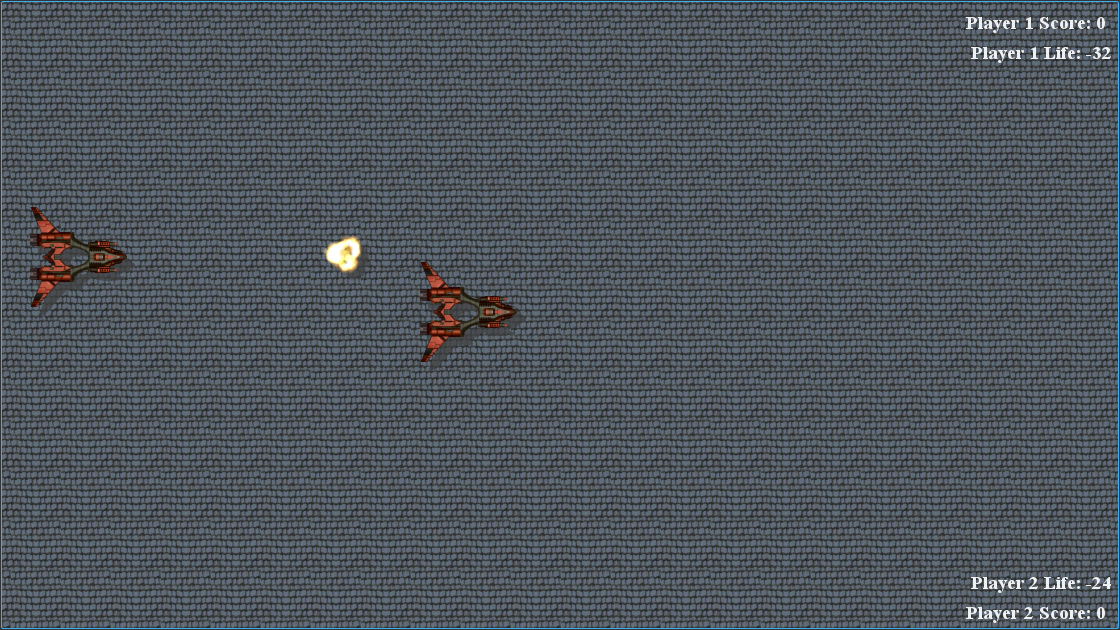
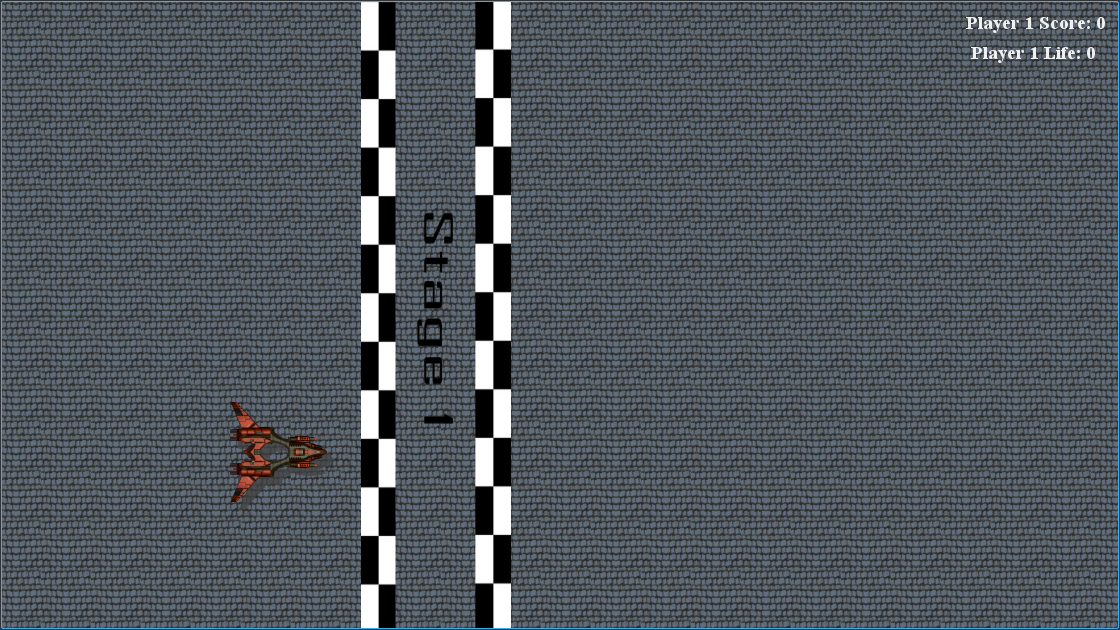
Project Update

diff --git a/Sources/Source Files/Widgets/MyGame.cpp b/Sources/Source Files/Widgets/MyGame.cpp
@@ -207,7 +207,14 @@ void MyGame::timerEvent(QTimerEvent *event) {
 		}
 	items = scene()->items();
 			foreach(QGraphicsItem *i, items) {
-			if (!dynamic_cast<MyShipShield *>(i) && !i->isVisible())
+			if (!dynamic_cast<MyShipShield *>(i) && !dynamic_cast<MyShip *>(i) && !i->isVisible()) {
 				scene()->removeItem(i);
+			}
+			else if (dynamic_cast<MyShip *>(i) && !i->isVisible()) {
+				scene()->removeItem(dynamic_cast<MyShip *>(i)->shpshld);
+				scene()->removeItem(dynamic_cast<MyShip *>(i)->scr_txt);
+				scene()->removeItem(dynamic_cast<MyShip *>(i)->lf_txt);
+				scene()->removeItem(i);
+			}
 		}
 }

diff --git a/Sources/Source Files/Game Objects/MyShip.cpp b/Sources/Source Files/Game Objects/MyShip.cpp
@@ -184,7 +184,6 @@ void MyShip::game_unpaused() {
 		}
 		activate_lsr();
 	}
-
 }
 
 void MyShip::cllsn_dtctn() {
@@ -405,4 +404,6 @@ void MyShip::updt(QSet<int> *prsd_kys) {
 	updt_rtn();
 	updt_pos();
 	updt_txt();
+	if (lf < 0)
+		hide();
 }
